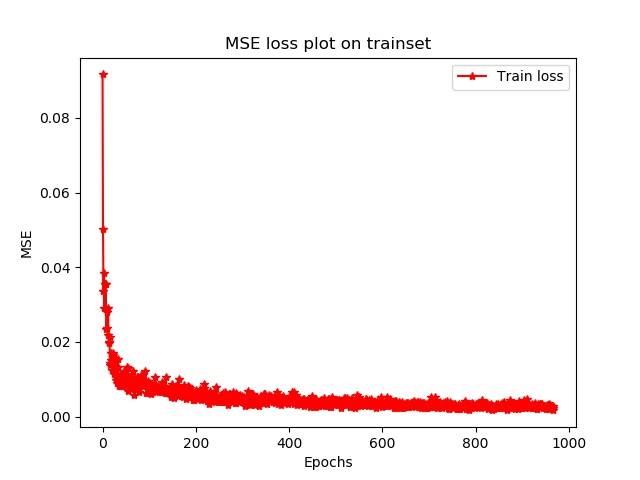
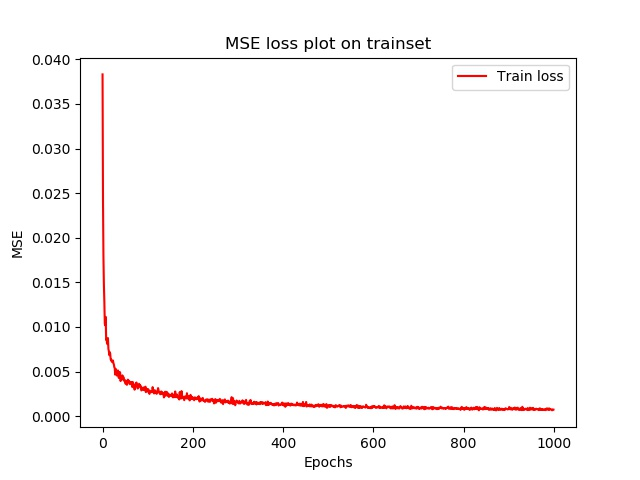
first

diff --git a/train.py b/train.py
@@ -35,7 +35,7 @@ if __name__ == '__main__':
     gflags.DEFINE_float  ("lr", 1e-4, "learning rate")
     ############################################
     gflags.DEFINE_integer("valid_every", 1, "valid model after each test_every iter.")
-    gflags.DEFINE_integer("save_every",  500, "save model after each test_every iter.")
+    gflags.DEFINE_integer("save_every",  10, "save model after each test_every iter.")
     ############################################
     gflags.DEFINE_integer("max_iter_train", 5000, "number of iteration for the training stage")
     gflags.DEFINE_integer("max_iter_valid", 200, "number of iteration for the valid stage")
@@ -43,17 +43,18 @@ if __name__ == '__main__':
     gflags.DEFINE_string ("gpu_ids", "0", "gpu ids used to train")
     Flags(sys.argv)
     #############################################
-    trainSet    = Dataset(Flags.train_path,Flags.test_path,Flags.valid_path,Flags.max_iter_train,"train")
-    trainLoader = DataLoader(trainSet, batch_size=Flags.batch_size, shuffle=False, num_workers=Flags.workers)
+    trainSet     = Dataset(Flags.train_path,Flags.test_path,Flags.valid_path,Flags.max_iter_train,"train")
+    trainLoader  = DataLoader(trainSet, batch_size=Flags.batch_size, shuffle=False, num_workers=Flags.workers)
     #############################################
-    validSet    = Dataset(Flags.valid_path,Flags.test_path,Flags.valid_path,Flags.max_iter_valid,"valid")
-    validLoader = DataLoader(validSet, batch_size=Flags.batch_size, shuffle=False, num_workers=Flags.workers)
+    validSet     = Dataset(Flags.valid_path,Flags.test_path,Flags.valid_path,Flags.max_iter_valid,"valid")
+    validLoader  = DataLoader(validSet, batch_size=Flags.batch_size, shuffle=False, num_workers=Flags.workers)
     #############################################
-    loss_MSE    = torch.nn.MSELoss()
-    net         = SiameseNet()
+    #loss_fn     = torch.nn.MSELoss()
+    loss_fn      = torch.nn.BCELoss()
+    net          = SiameseNet()
     #############################################
-    save_path   = os.path.join(Flags.save_folder,"save_data")
-    model_path  = os.path.join(save_path,"models")
+    save_path    = os.path.join(Flags.save_folder,"save_data")
+    model_path   = os.path.join(save_path,"models")
     #############################################
     makeFolder(save_path)
     makeFolder(model_path)
@@ -69,7 +70,7 @@ if __name__ == '__main__':
     loss_list        = [] 
     epoch_valid      = 0 
     for epoch in range(Flags.nepochs):
-        loss_val    = 0
+        loss_val     = 0
         print("\n ...Train at epoch " +str(epoch))
         cont_iter = 0 
         for batch_id, (img1, img2, label) in tqdm(enumerate(trainLoader, 1)):
@@ -80,7 +81,7 @@ if __name__ == '__main__':
                 img1, img2, label = Variable(img1), Variable(img2), Variable(label)
             optimizer.zero_grad()
             output    = net.forward(img1, img2)
-            loss      = loss_MSE       (output, label)
+            loss      = loss_fn    (output, label)
             loss_val += loss.item  ()
             optimizer.zero_grad()
             loss.backward()

diff --git a/model.py b/model.py
@@ -10,6 +10,7 @@ class SiameseNet(nn.Module):
         self.alex_net = models.alexnet(pretrained=True).features
         self.liner    = nn.Sequential(nn.Linear(12544, 4096), nn.Sigmoid())
         self.out      = nn.Linear(4096, 1)
+        self.softmax  = torch.nn.Softmax(dim=None)
 
     def cnn(self, x):
         x = self.alex_net(x)
@@ -21,7 +22,7 @@ class SiameseNet(nn.Module):
         cnn1 = self.cnn(x1)
         cnn2 = self.cnn(x2)
         dis  = torch.abs(cnn1 - cnn2)
-        out  = self.out(dis)
+        out  = self.softmax(self.out(dis))
         return out
 
 '''
